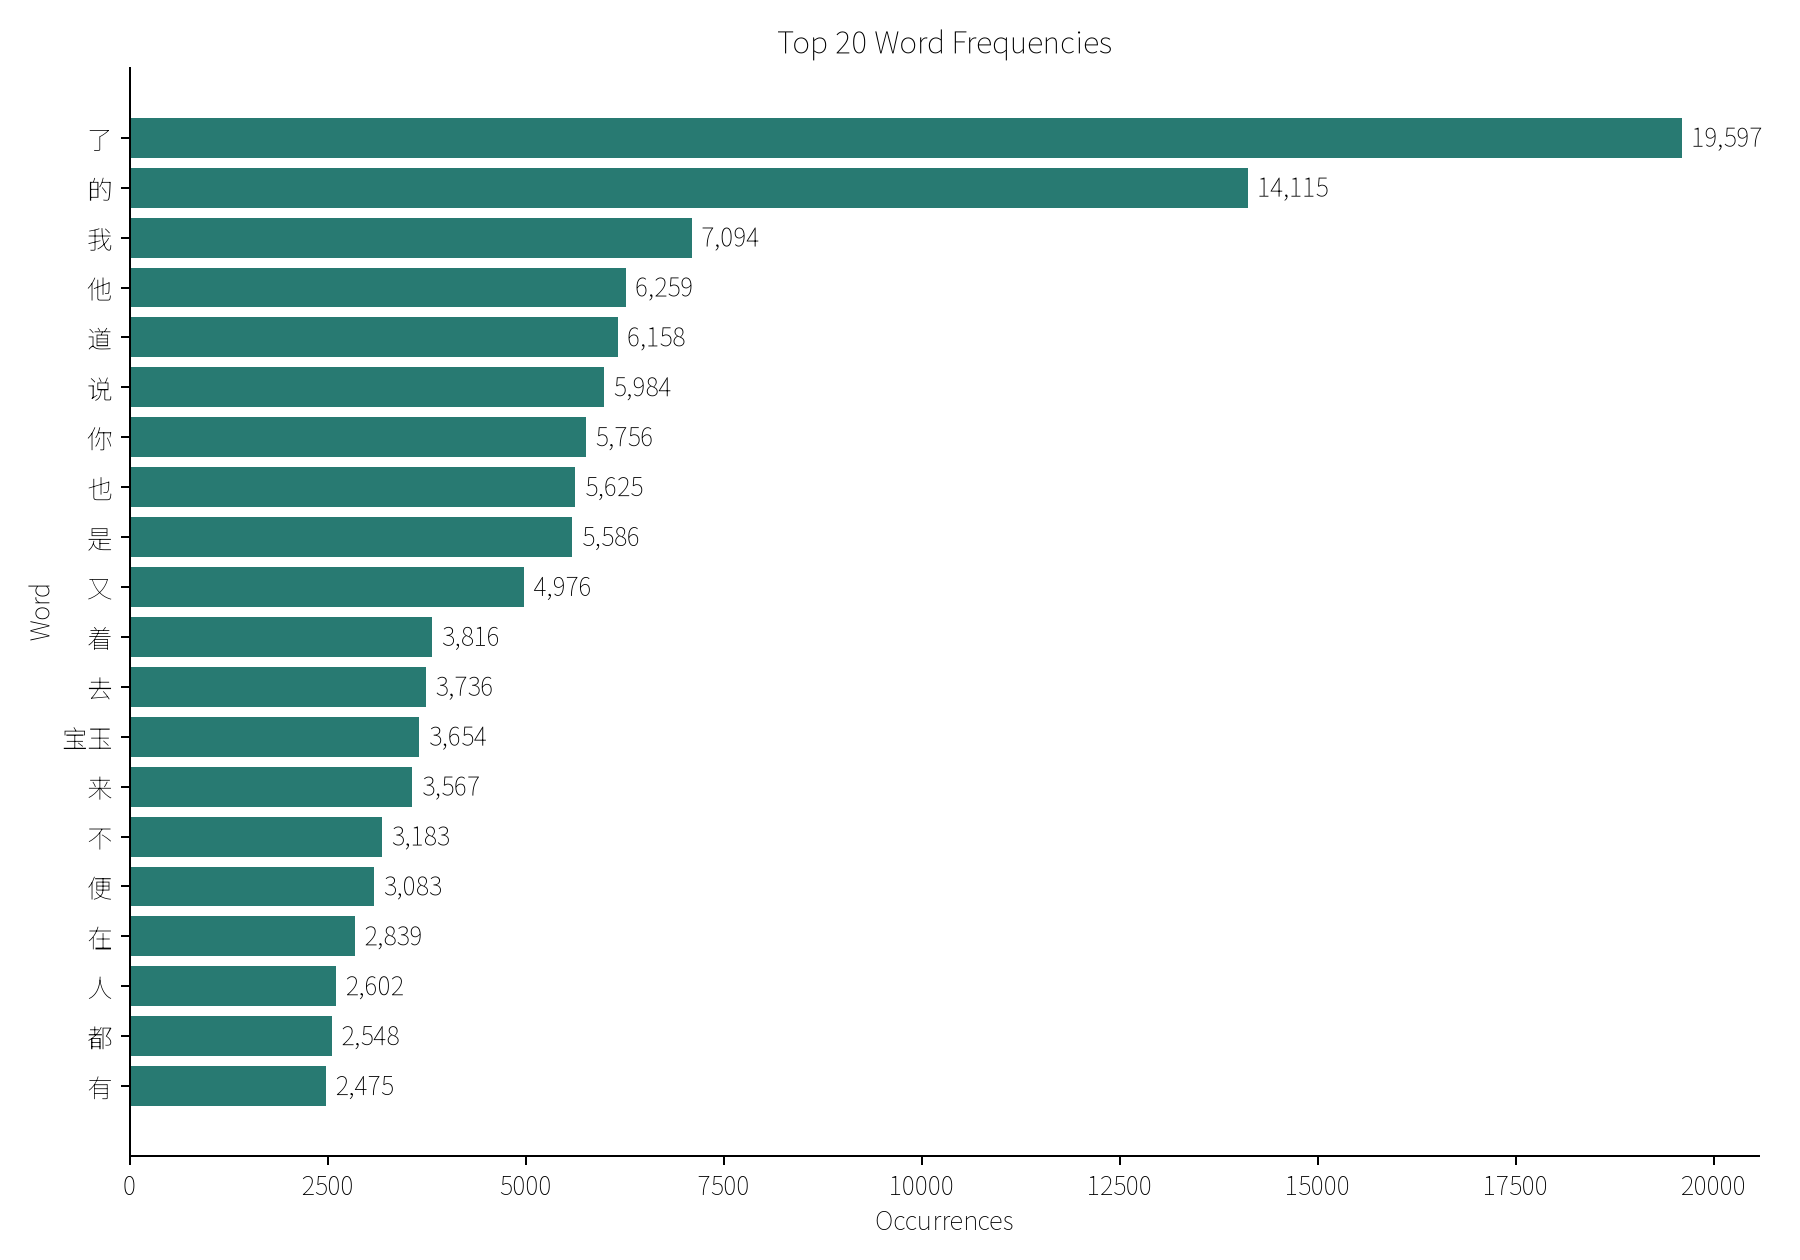
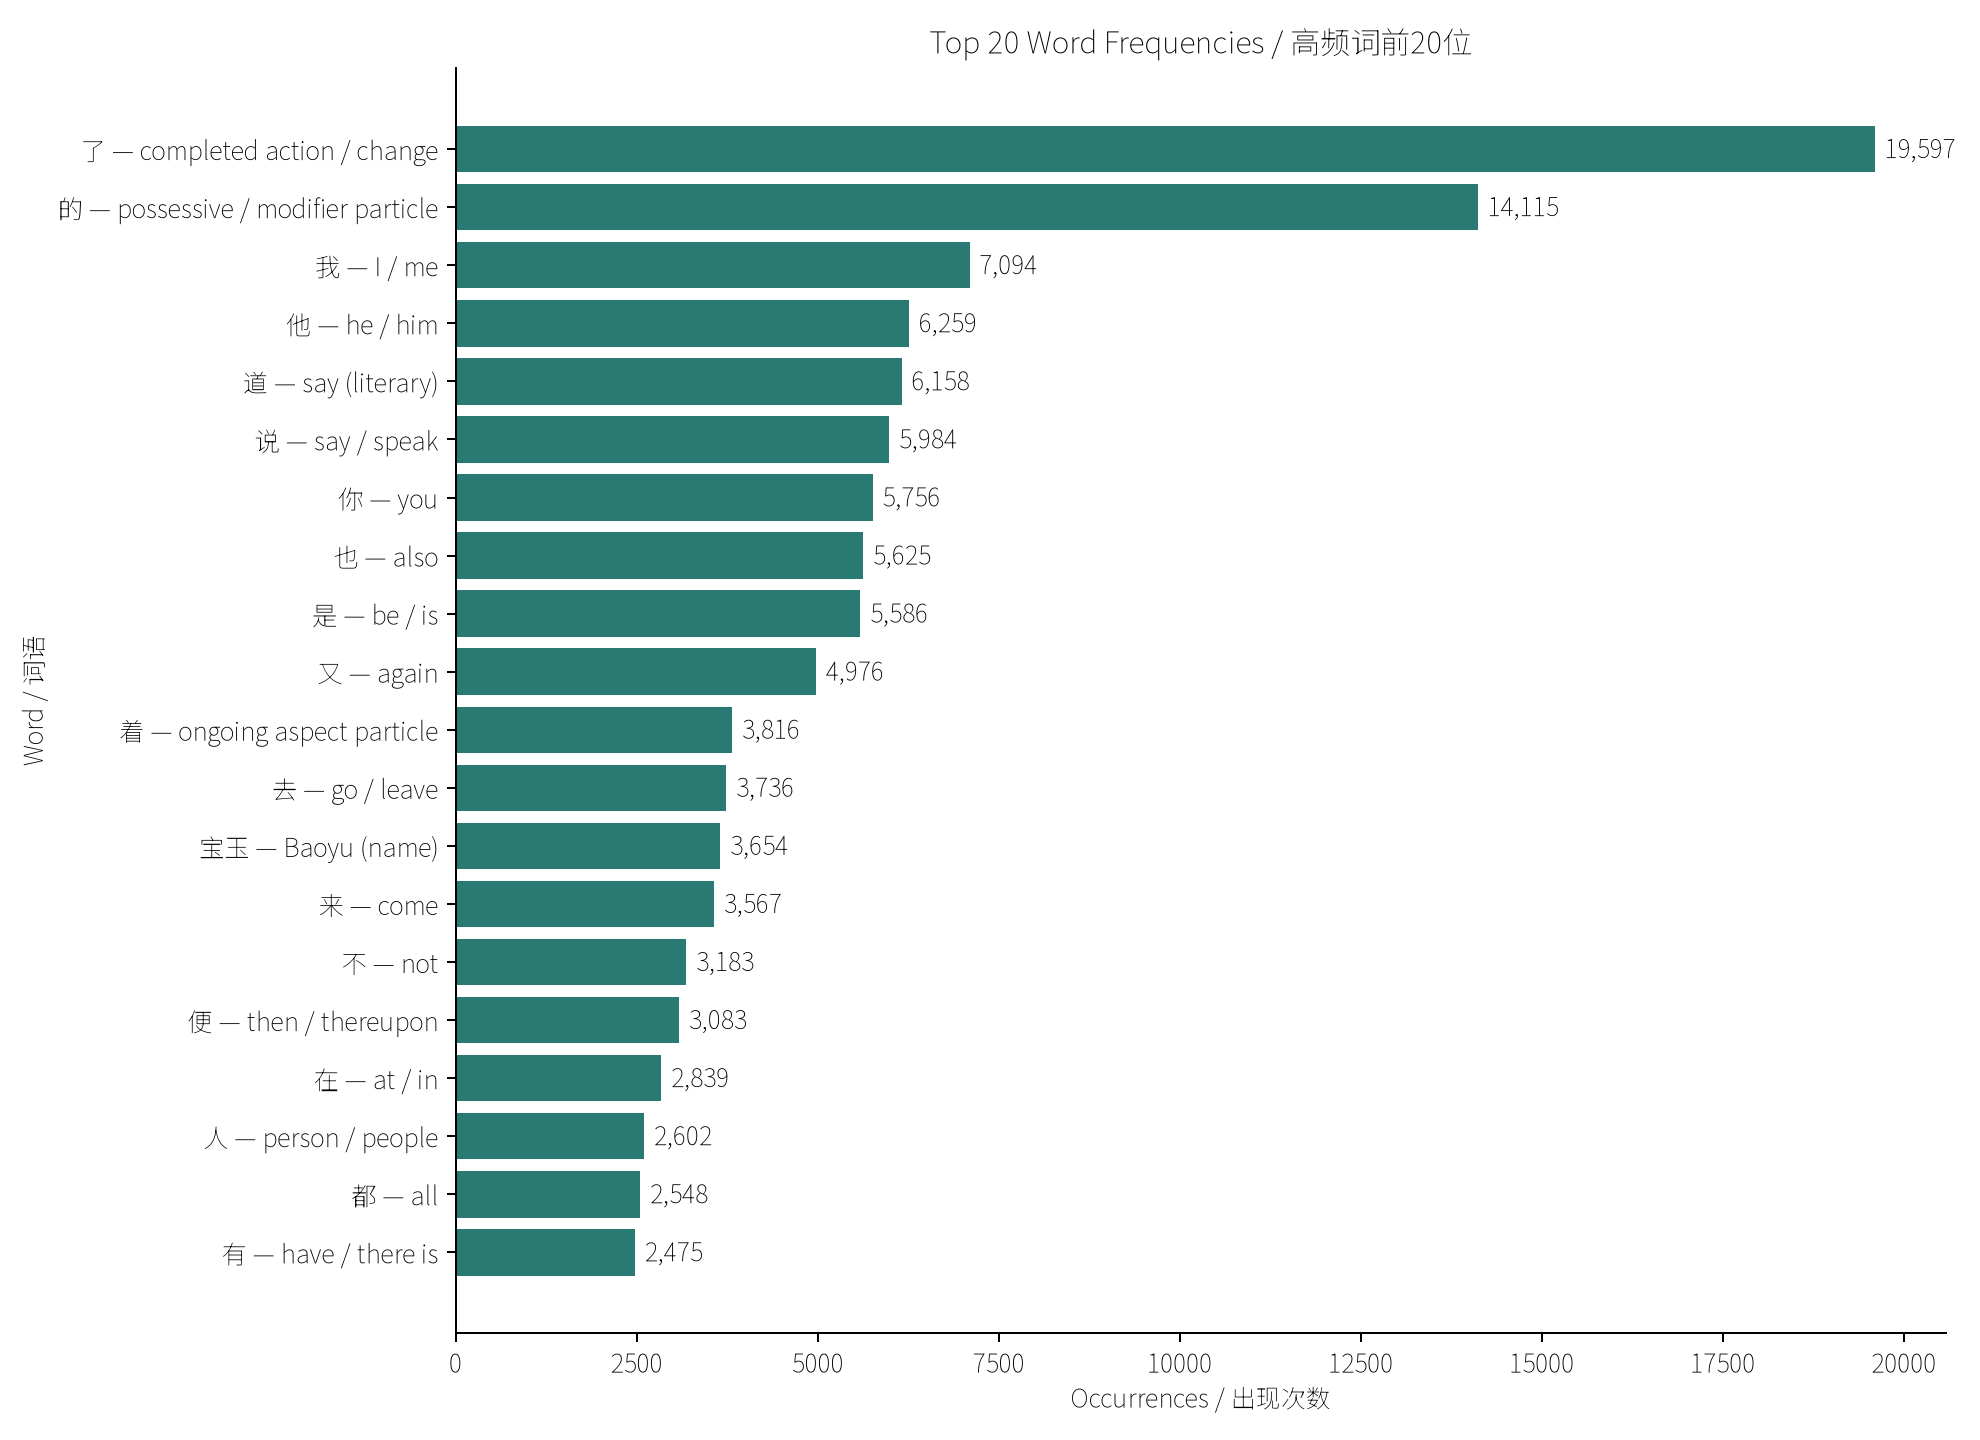
Add English glosses to word frequency chart

Changed region(s): [[0.0311, 0.0, 0.9956, 0.9905], [0.0, 0.4333, 0.0311, 0.5262]]

diff --git a/word_count.py b/word_count.py
@@ -7,21 +7,48 @@ import matplotlib.pyplot as plt
 from matplotlib import font_manager
 
 
+ENGLISH_GLOSSES = {
+    "了": "completed action / change",
+    "的": "possessive / modifier particle",
+    "我": "I / me",
+    "他": "he / him",
+    "道": "say (literary)",
+    "说": "say / speak",
+    "你": "you",
+    "也": "also",
+    "是": "be / is",
+    "又": "again",
+    "着": "ongoing aspect particle",
+    "去": "go / leave",
+    "宝玉": "Baoyu (name)",
+    "来": "come",
+    "不": "not",
+    "便": "then / thereupon",
+    "在": "at / in",
+    "人": "person / people",
+    "都": "all",
+    "有": "have / there is",
+}
+
+
 def save_top_words(counts: Counter[str], output_path: Path) -> None:
     top_words = counts.most_common(20)
-    words = [word for word, _ in reversed(top_words)]
+    labels = [
+        f"{word} — {ENGLISH_GLOSSES.get(word, 'translation unavailable')}"
+        for word, _ in reversed(top_words)
+    ]
     frequencies = [count for _, count in reversed(top_words)]
 
     font_path = Path.home() / ".local/share/fonts/NotoSansSC-VF.ttf"
     if font_path.exists():
         font_manager.fontManager.addfont(font_path)
         plt.rcParams["font.family"] = font_manager.FontProperties(fname=font_path).get_name()
-    figure, axis = plt.subplots(figsize=(10, 7))
-    bars = axis.barh(words, frequencies, color="#287a72")
+    figure, axis = plt.subplots(figsize=(11, 8))
+    bars = axis.barh(labels, frequencies, color="#287a72")
     axis.bar_label(bars, padding=4, fmt="{:,.0f}")
-    axis.set_title("Top 20 Word Frequencies")
-    axis.set_xlabel("Occurrences")
-    axis.set_ylabel("Word")
+    axis.set_title("Top 20 Word Frequencies / 高频词前20位")
+    axis.set_xlabel("Occurrences / 出现次数")
+    axis.set_ylabel("Word / 词语")
     axis.spines[["top", "right"]].set_visible(False)
     figure.tight_layout()
     figure.savefig(output_path, dpi=180)
